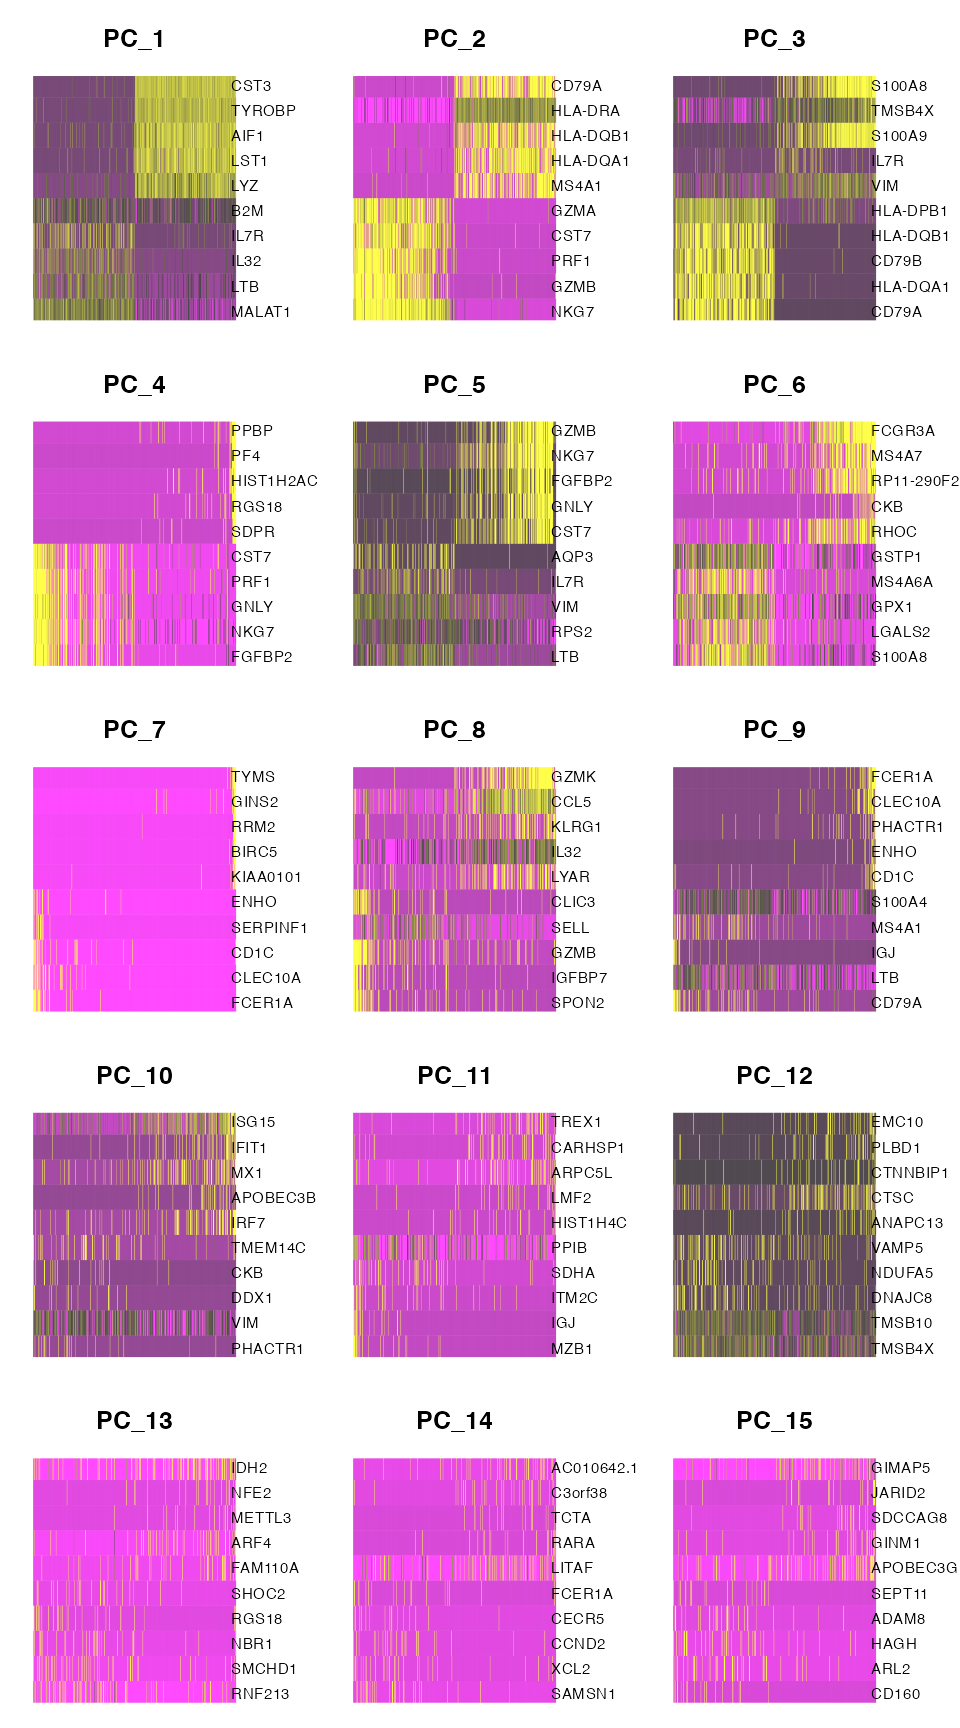
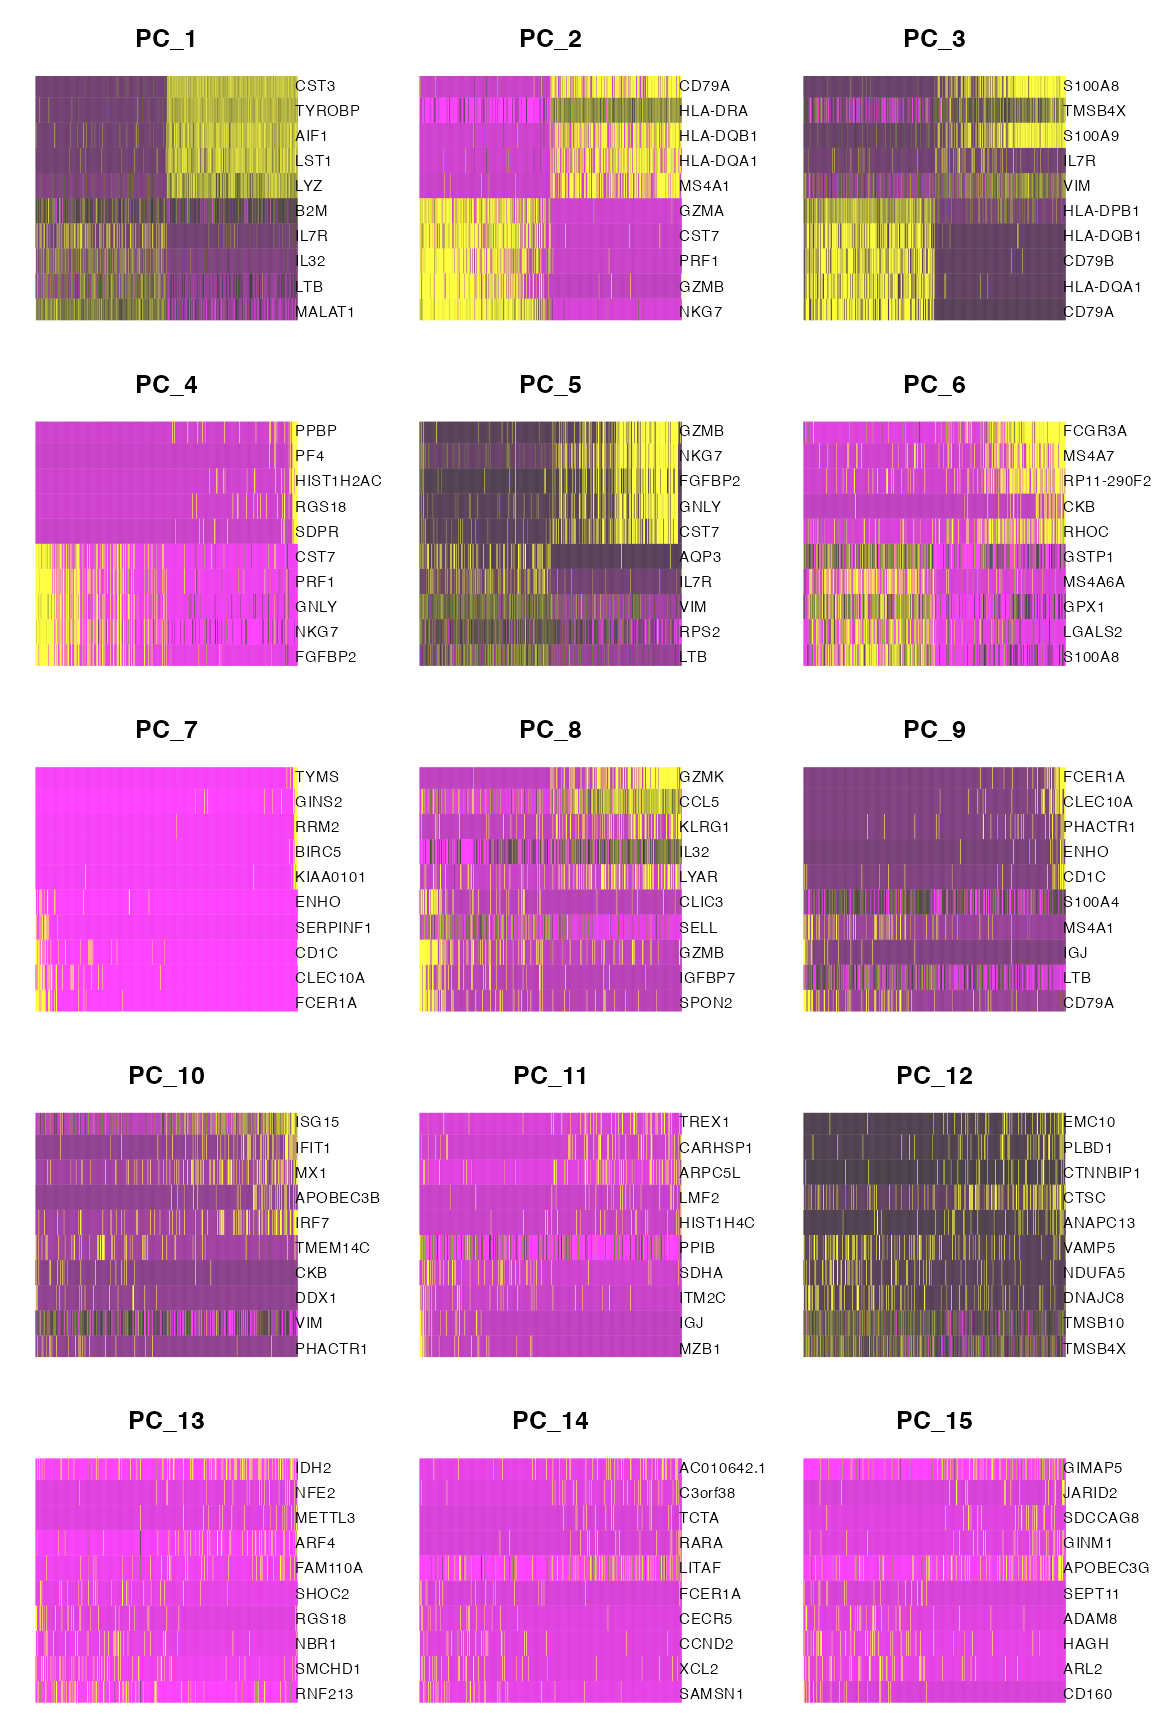
see if this ruined Seurat sidebar

diff --git a/docs/articles/seurat_tutorial.html b/docs/articles/seurat_tutorial.html
@@ -388,11 +388,11 @@
 <p>The first set of heatmaps displays expression counts from the training set. While the association between the genes and the principal components clearly decreases as we move from PC1 to PC15, PC15 still clearly shows association between the top genes and the PC. This association is due to the fact that the training data itself was used to construct the PCs, and so there will always be some genes that appear to be associated with the PC.</p>
 <div class="sourceCode" id="cb41"><pre class="downlit sourceCode r">
 <code class="sourceCode R"><span><span class="fu"><a href="https://satijalab.org/seurat/reference/DimHeatmap.html" class="external-link">DimHeatmap</a></span><span class="op">(</span><span class="va">pbmc.train</span>, dims <span class="op">=</span> <span class="fl">1</span><span class="op">:</span><span class="fl">15</span>, cells <span class="op">=</span> <span class="fl">500</span>, balanced <span class="op">=</span> <span class="cn">TRUE</span>, nfeatures<span class="op">=</span><span class="fl">10</span><span class="op">)</span></span></code></pre></div>
-<p><img src="seurat_tutorial_files/figure-html/unnamed-chunk-32-1.png" width="480"></p>
+<p><img src="seurat_tutorial_files/figure-html/unnamed-chunk-32-1.png" width="576"></p>
 <p>The following plot still shows principal components computed on the training set, but the expression count values inside of the heat map are now test set counts. For the first 6 or so PCs, the association between test set counts and the PC seems almost as strong as the association between the training set counts and the PCs. This suggests that these PCs are measuring true signal in the data. On the other hand, consider the PCs 10-15. The patterns seen in the training set essentially disappear in the top genes plotted for the test set. This suggests that any association seen in the initial heatmaps was due to overfitting; these PCs are mostly driven by noise in the data.</p>
 <div class="sourceCode" id="cb42"><pre class="downlit sourceCode r">
 <code class="sourceCode R"><span><span class="fu"><a href="https://satijalab.org/seurat/reference/DimHeatmap.html" class="external-link">DimHeatmap</a></span><span class="op">(</span><span class="va">pbmc.train</span>, dims <span class="op">=</span> <span class="fl">1</span><span class="op">:</span><span class="fl">15</span>, cells <span class="op">=</span> <span class="fl">500</span>, balanced <span class="op">=</span> <span class="cn">TRUE</span>, nfeatures<span class="op">=</span><span class="fl">10</span>, assay<span class="op">=</span><span class="st">"test"</span><span class="op">)</span></span></code></pre></div>
-<p><img src="seurat_tutorial_files/figure-html/unnamed-chunk-33-1.png" width="480"></p>
+<p><img src="seurat_tutorial_files/figure-html/unnamed-chunk-33-1.png" width="576"></p>
 <p>Our results using count splitting line up with insights from the Seurat tutorial obtained using Jackstraw (<span class="citation">Chung and Storey (2015)</span>): the original Seurat tutorial suggested that it would be reasonable to keep 7-12 PCs, and chose to keep 10 PCs. However, Jackstraw requires re-computing PCs for many permuted versions of the data, while our heatmaps obtained using count splitting requires only a single principal component calculation. This highlights the fact that count splitting can be useful when determining how many principal components to retain for analysis.</p>
 </div>
 <div class="section level2">
